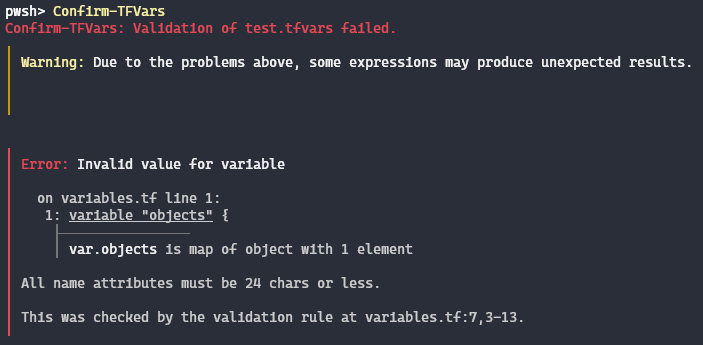
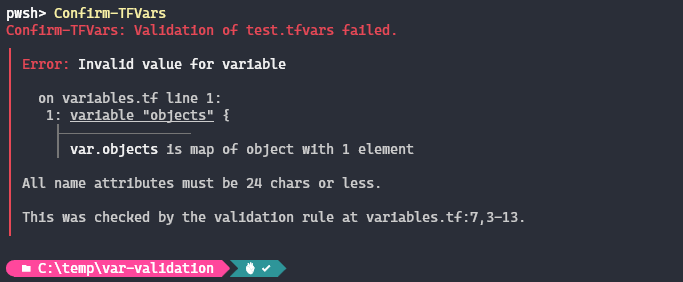
Remove warning output

Changed region(s): [[0.0, 0.3121, 0.7687, 0.9929], [0.0, 0.0, 0.9839, 0.3404]]

diff --git a/README.md b/README.md
@@ -48,8 +48,8 @@ The output mirrors native terraform output, any errors are passed directly from 
 
 ### <u>Success Example</u>
 
-![Alt text](Screenshots/Success.png)
+![Success Example Image](Screenshots/Success.png)
 
 ### <u>Failure Example</u>
 
-![Alt text](Screenshots/Failure.png)
+![Failure Example Image](Screenshots/Failure.png)
